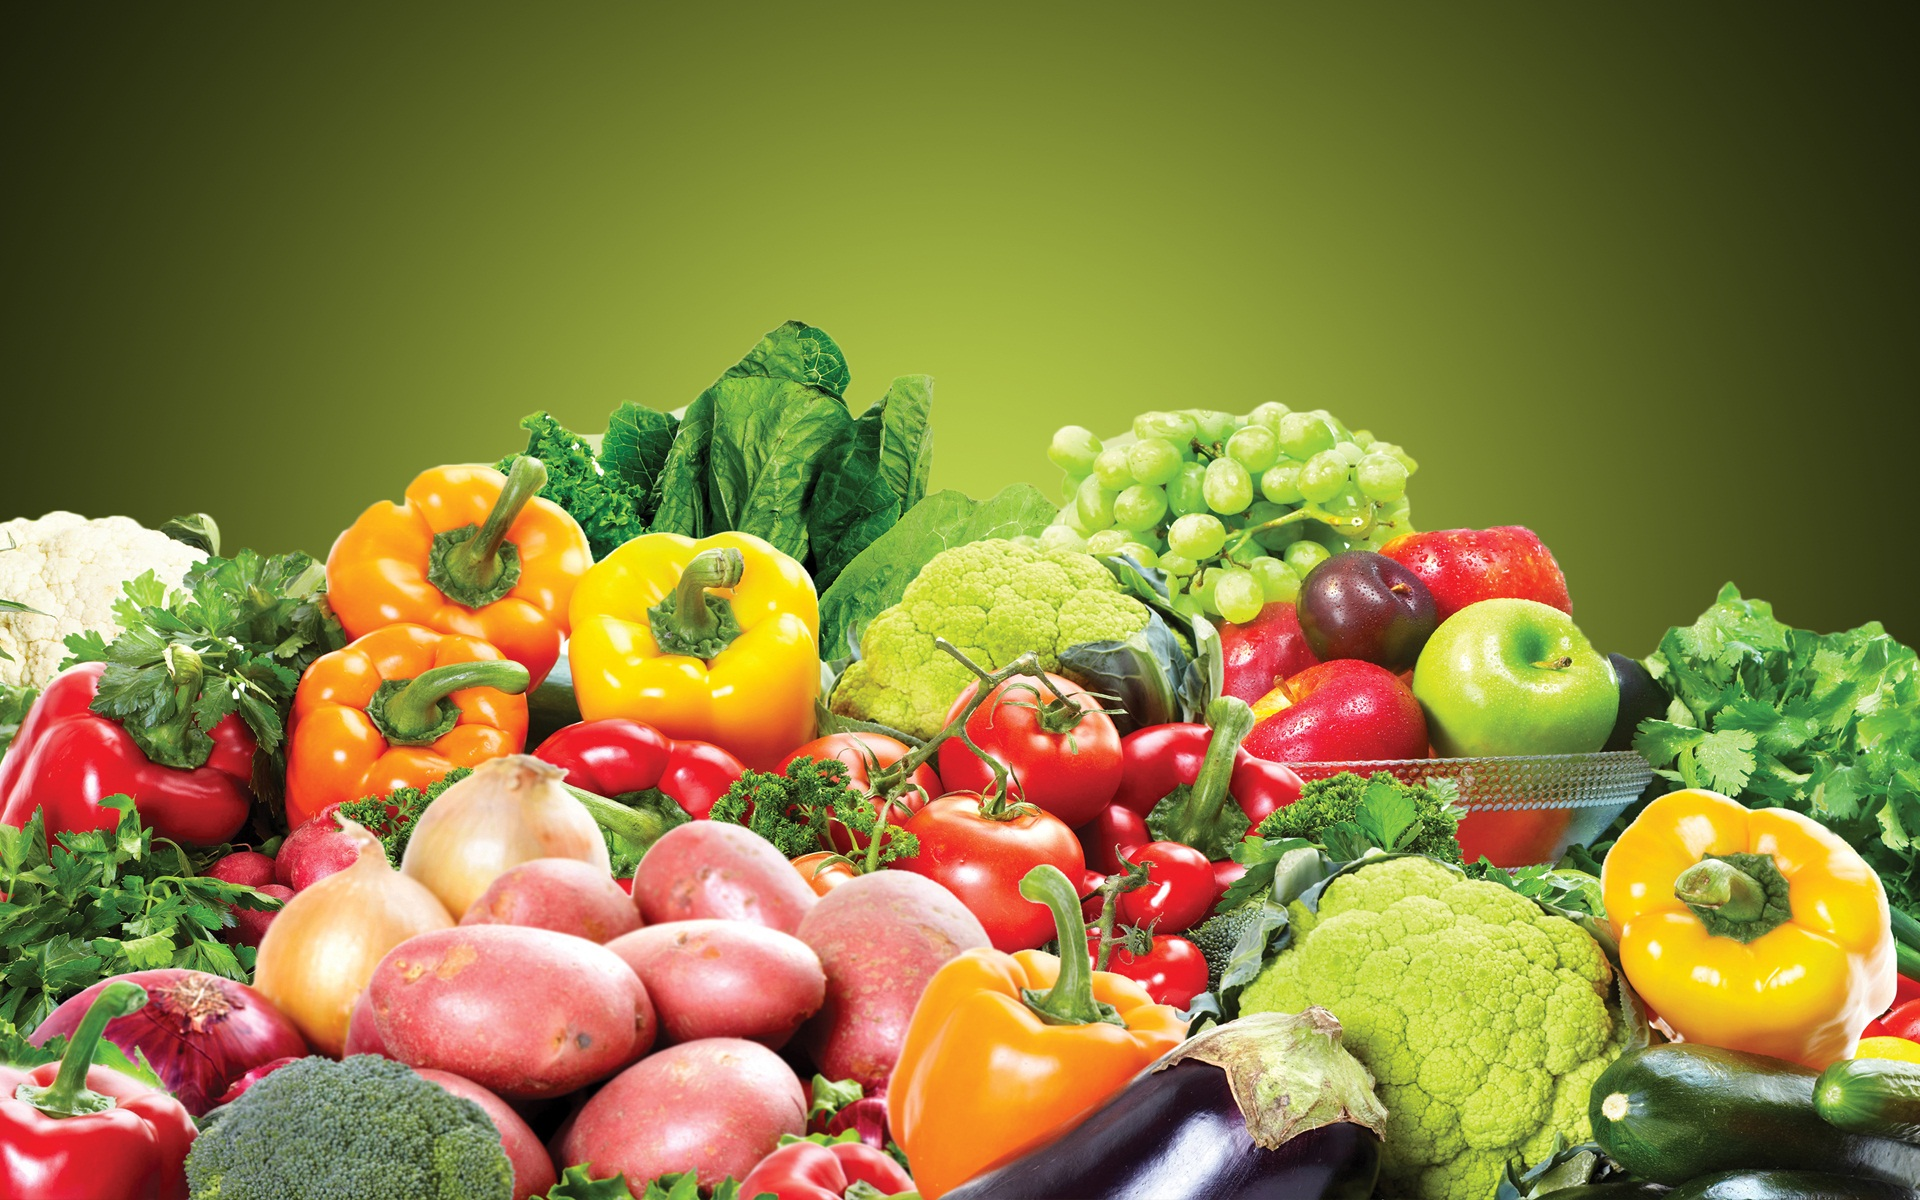
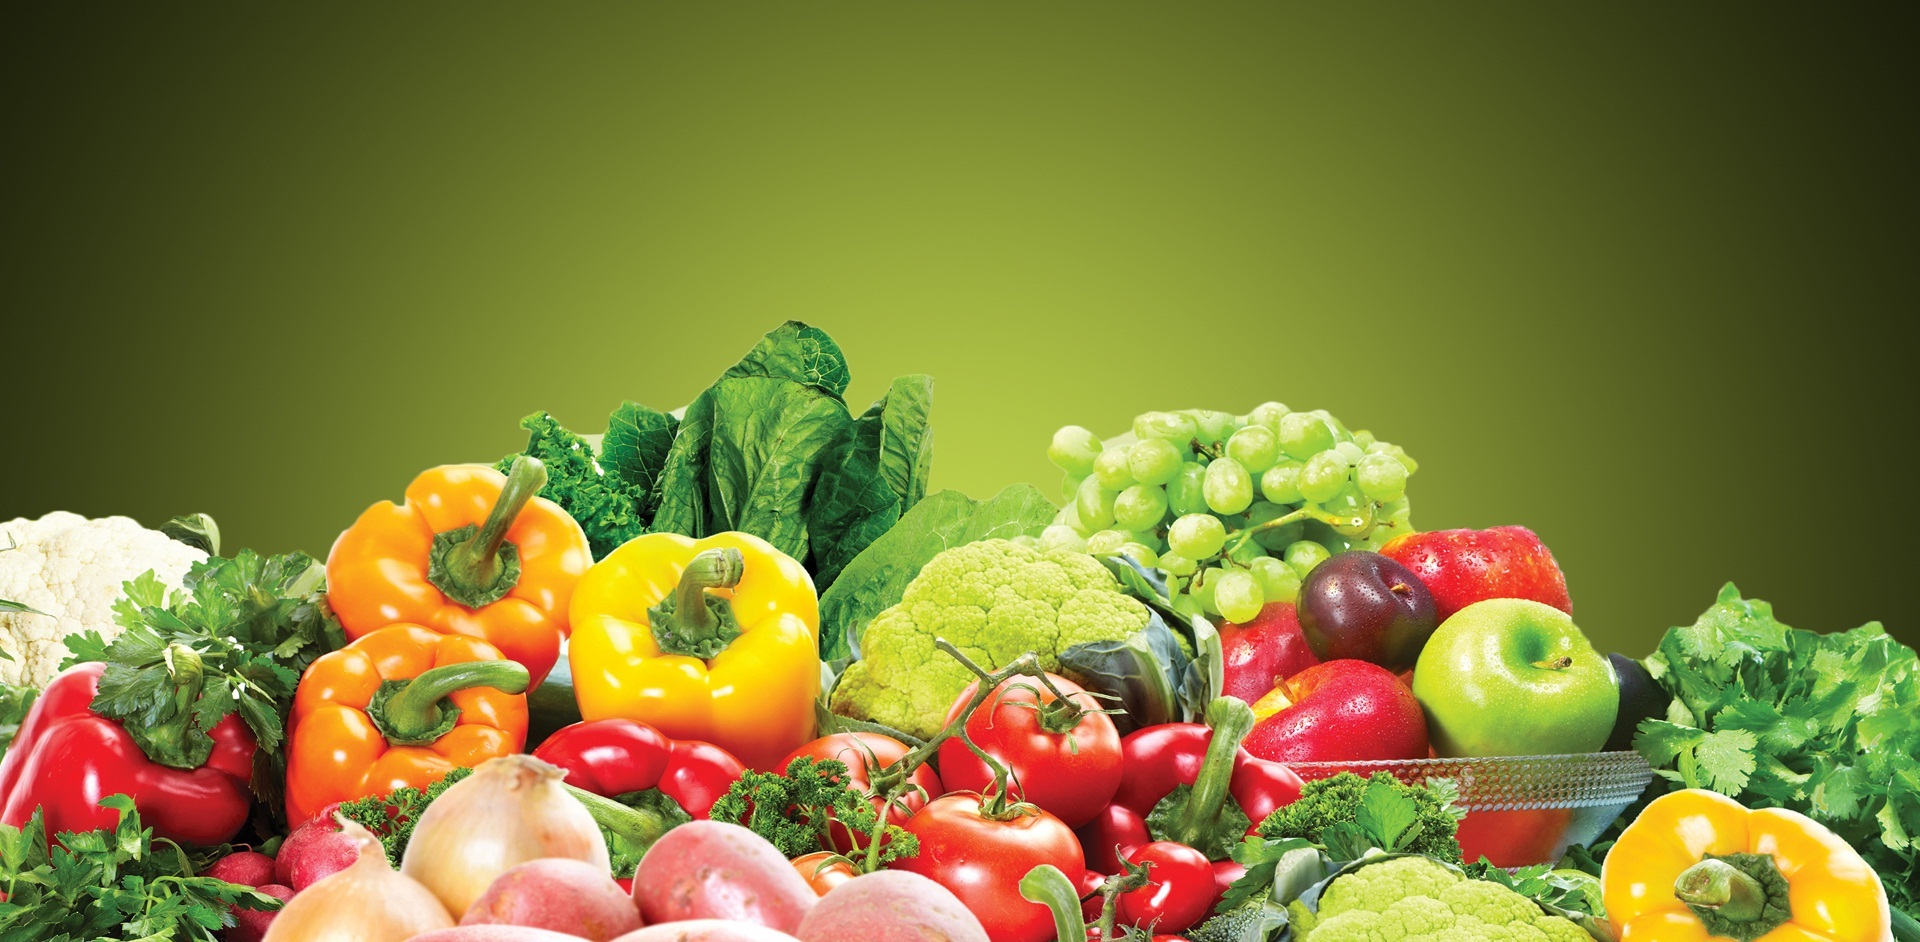
Nav improvements, inc footer, our work section, responsive deisgn updates

diff --git a/src/components/Main.js b/src/components/Main.js
@@ -1,13 +1,45 @@
 import React, { Component } from "react";
 import * as ReactBootstrap from "react-bootstrap";
 import "../styles/_Main.scss";
-import Image from "../images/main-veggies.jpg";
+import MainImage from "../images/main-veggies.jpg";
+import DeliveryTruck from "../images/delivery-icon.png";
+import Charity from "../images/charity-icon.png";
+import Sustainability from "../images/sustainability-icon.png";
 
 function Main() {
   return (
     <div className="main-body">
-      <img src={Image} className="main-body__image" alt="logo" />
-      <div></div>
+      <img src={MainImage} className="main-body__image" alt="logo" />
+      <div className="our-purpose container">
+        <div className="our-purpose__section">
+          <div className="our-purpose__section--line-1"></div>
+          <img src={DeliveryTruck} alt="DeliveryTruck" />
+          <h3>What we do</h3>
+          <p>
+            We deliver the freshest vegetables in all of Australia to your
+            company every morning. These are organically sourced and presevative
+            free veggies.
+          </p>
+        </div>
+        <div className="our-purpose__section">
+          <div className="our-purpose__section--line-2"></div>
+          <img src={Charity} alt="Charity" />
+          <h3>Our charities</h3>
+          <p>
+            We're always happy to deliver unwanted vegetables to the needy. We
+            also hold multiple charity events per year.
+          </p>
+        </div>
+        <div className="our-purpose__section">
+          <div className="our-purpose__section--line-3"></div>
+          <img src={Sustainability} alt="Sustainability" />
+          <h3>Sustainability</h3>
+          <p>
+            For every company we sign up, we plant one tree in the forrest of
+            Narnia. Currently we're up to 5000 trees!
+          </p>
+        </div>
+      </div>
     </div>
   );
 }

diff --git a/src/styles/_Footer.scss b/src/styles/_Footer.scss
@@ -1,0 +1,78 @@
+@import "./Variables";
+
+section.footer {
+  background-color: $cactusGreen;
+  position: absolute;
+  bottom: 0;
+  width: 100%;
+  height: 2.5rem;
+  padding: 25px 0px;
+}
+
+.footer__container {
+  background-color: $cactusGreen;
+}
+.footer__content {
+  padding: 25px;
+  text-align: center;
+  color: #fff;
+}
+.footer__content img {
+  width: 5%;
+  position: absolute;
+  top: -50px;
+  border: 1px solid red;
+}
+.footer__heading {
+  position: relative;
+}
+.footer__heading h2 {
+  display: inline-block;
+  padding: 0px 10px;
+  /* border: 1px solid; */
+  position: relative;
+  z-index: 9999;
+}
+
+.footer__content p {
+  font-size: 12px;
+  font-weight: 100;
+  padding: 10px 0px;
+}
+ul.social__media {
+  margin: 0;
+  padding: 0;
+  display: inline-block;
+  margin-top: 15px;
+}
+ul.social__media li {
+  list-style-type: none;
+  display: inline-block;
+  margin-right: 15px;
+}
+ul.social__media li a {
+  color: #fff;
+  font-size: 20px;
+}
+ul.social__media li {
+  text-align: center;
+  height: 45px;
+  width: 45px;
+  border-radius: 50px;
+  background-color: tomato;
+  line-height: 40px;
+  border: 2px solid #545d5d;
+  box-shadow: 0px 1px #fff;
+  box-shadow: 0 2px 10px -1px rgba(0, 0, 0, 0.55),
+    0 0px 20px 0px rgba(0, 0, 0, 0.55);
+}
+
+ul.bus__list {
+  padding: 0;
+  margin: 0;
+}
+
+ul.bus__list li {
+  list-style-type: none;
+  margin-bottom: 5px;
+}

diff --git a/src/styles/_Main.scss b/src/styles/_Main.scss
@@ -1,13 +1,75 @@
 @import "./Variables";
 
 .main-body {
-  div {
-    height: 1000px;
+  &__image {
+    filter: brightness(70%);
+    height: 100%;
+    width: 100%;
   }
 }
 
-.main-body__image {
-  filter: brightness(85%);
-  height: 100%;
-  width: 100%;
+.our-purpose {
+  align-items: start;
+  display: grid;
+  grid-gap: 6rem;
+  grid-template-columns: repeat(3, 1fr);
+  grid-auto-rows: 1fr;
+  margin: 50px 0px;
+  text-align: center;
+  width: 114rem;
+
+  &__section {
+    background-color: #fff;
+    border-radius: 0.4rem;
+    box-shadow: 0 3rem 6rem rgba(0, 0, 0, 0.1);
+    cursor: pointer;
+    height: 100%;
+    overflow: hidden;
+    transition: $transition;
+
+    &:hover {
+      transform: translateY(-0.5%);
+      box-shadow: 0 4rem 8rem rgba(0, 0, 0, 0.2);
+    }
+
+    &--line-1,
+    &--line-2,
+    &--line-3 {
+      height: 3px;
+    }
+
+    &--line-1 {
+      background-color: $naturalYellow;
+    }
+
+    &--line-2 {
+      background-color: $cactusGreen;
+    }
+
+    &--line-3 {
+      background-color: $lightGreen;
+    }
+
+    img {
+      height: 100px;
+      padding: 20px;
+    }
+
+    p {
+      padding: 3rem 3rem;
+    }
+  }
+}
+
+@media only screen and (max-width: 600px) {
+  .main-body__image {
+    object-fit: cover;
+    object-position: 100% 0;
+    width: 100%;
+    height: 460px;
+  }
+
+  .our-purpose {
+    grid-template-columns: 1fr;
+  }
 }

diff --git a/src/components/Footer.js b/src/components/Footer.js
@@ -3,7 +3,38 @@ import "../styles/_Footer.scss";
 import * as ReactBootstrap from "react-bootstrap";
 
 function Footer() {
-  return <div></div>;
+  return (
+    <div>
+      <section class="footer">
+        <div class="footer__container">
+          <div class="footer__content">
+            <div class="footer__heading">
+              <h2>No chemical in our vegetable ;)</h2>
+            </div>
+            <p class="mb-0">Broccoli & Co. © 2020 built by Fouad Chamma</p>
+
+            <ul class="social__media">
+              <li>
+                <a href="#">
+                  <i class="fa fa-facebook" aria-hidden="true"></i>
+                </a>
+              </li>
+              <li>
+                <a href="#">
+                  <i class="fa fa-twitter" aria-hidden="true"></i>
+                </a>
+              </li>
+              <li>
+                <a href="#">
+                  <i class="fa fa-youtube" aria-hidden="true"></i>
+                </a>
+              </li>
+            </ul>
+          </div>
+        </div>
+      </section>
+    </div>
+  );
 }
 
 export default Footer;

diff --git a/src/styles/_Nav.scss b/src/styles/_Nav.scss
@@ -2,9 +2,8 @@
 
 .nav {
   align-items: center;
-  background-color: transparent;
+  background-color: $cactusGreen;
   display: flex !important;
-  justify-content: space-around;
   min-height: 10vh;
   position: relative;
 
@@ -36,7 +35,7 @@
     align-items: center;
     display: flex;
     font-size: 1.8rem;
-    justify-content: space-evenly;
+    justify-content: space-evenly !important;
     list-style: none;
     width: 100%;
   }
@@ -47,9 +46,17 @@
     border-radius: $standardBorderRadius;
     padding: 15px;
   }
+
+  .navbar-toggler {
+    padding: 10px;
+    background-color: $creamWhite;
+  }
 }
 
-nav .navbar-toggler {
-  padding: 10px;
-  background-color: white;
+@media only screen and (max-width: 600px) {
+  .nav {
+    &__nav-link {
+      font-weight: 600;
+    }
+  }
 }

diff --git a/public/index.html b/public/index.html
@@ -10,6 +10,17 @@
       content="Web site created using create-react-app"
     />
     <link rel="apple-touch-icon" href="%PUBLIC_URL%/logo192.png" />
+    <link
+      href="https://fonts.googleapis.com/css2?family=Arvo:ital,wght@0,400;0,700;1,400;1,700&family=Montserrat:wght@300&family=Roboto:wght@500&display=swap"
+      rel="stylesheet"
+    />
+    <link
+      rel="stylesheet"
+      href="https://maxcdn.bootstrapcdn.com/bootstrap/4.5.0/css/bootstrap.min.css"
+      integrity="sha384-9aIt2nRpC12Uk9gS9baDl411NQApFmC26EwAOH8WgZl5MYYxFfc+NcPb1dKGj7Sk"
+      crossorigin="anonymous"
+    />
+
     <!--
       manifest.json provides metadata used when your web app is installed on a
       user's mobile device or desktop. See https://developers.google.com/web/fundamentals/web-app-manifest/

diff --git a/src/App.js b/src/App.js
@@ -9,9 +9,15 @@ import "./styles/App.scss";
 function App() {
   return (
     <Router>
-      <div className="App">
-        <Nav />
-        <Main />
+      <div className="page-container">
+        <div className="page-container__content-wrap">
+          <div className="App">
+            <Nav />
+            <Switch>
+              <Route path="/" exact component={Main} />
+            </Switch>
+          </div>
+        </div>
         <Footer />
       </div>
     </Router>

diff --git a/src/styles/App.scss b/src/styles/App.scss
@@ -1,5 +1,26 @@
 @import "./Variables";
 
+html,
+body {
+  display: block;
+  min-height: 100vh; /* will cover the 100% of viewport */
+  position: relative;
+}
+
+body {
+  background-color: $creamWhite;
+  font-family: "Montserrat", sans-serif !important;
+}
+
+.page-container {
+  min-height: 100vh;
+  position: relative;
+
+  &__content-wrap {
+    padding-bottom: 3.5rem; /* Footer height */
+  }
+}
+
 a {
   text-decoration: none !important;
 }

diff --git a/src/styles/_Variables.scss b/src/styles/_Variables.scss
@@ -2,8 +2,18 @@ $charcoal: #5a5a5a;
 
 $navyBlue: #003366;
 
+$cactusGreen: #4d774e;
+
+$darkGreen: #164a41;
+
+$lightGreen: #9dc88d;
+
+$naturalYellow: #f1b24a;
+
 $creamWhite: #faf0e6;
 
 $standardBorderRadius: 1rem;
 
 $headingFont: "Roboto", sans-serif;
+
+$transition: 0.2s;

diff --git a/src/components/Nav.js b/src/components/Nav.js
@@ -22,7 +22,7 @@ function Nav() {
             About
           </Link>
           <Link to="/contact" className="nav__nav-link">
-            Contacts
+            Contact us
           </Link>
         </ReactBootstrap.Nav>
       </ReactBootstrap.Navbar.Collapse>
